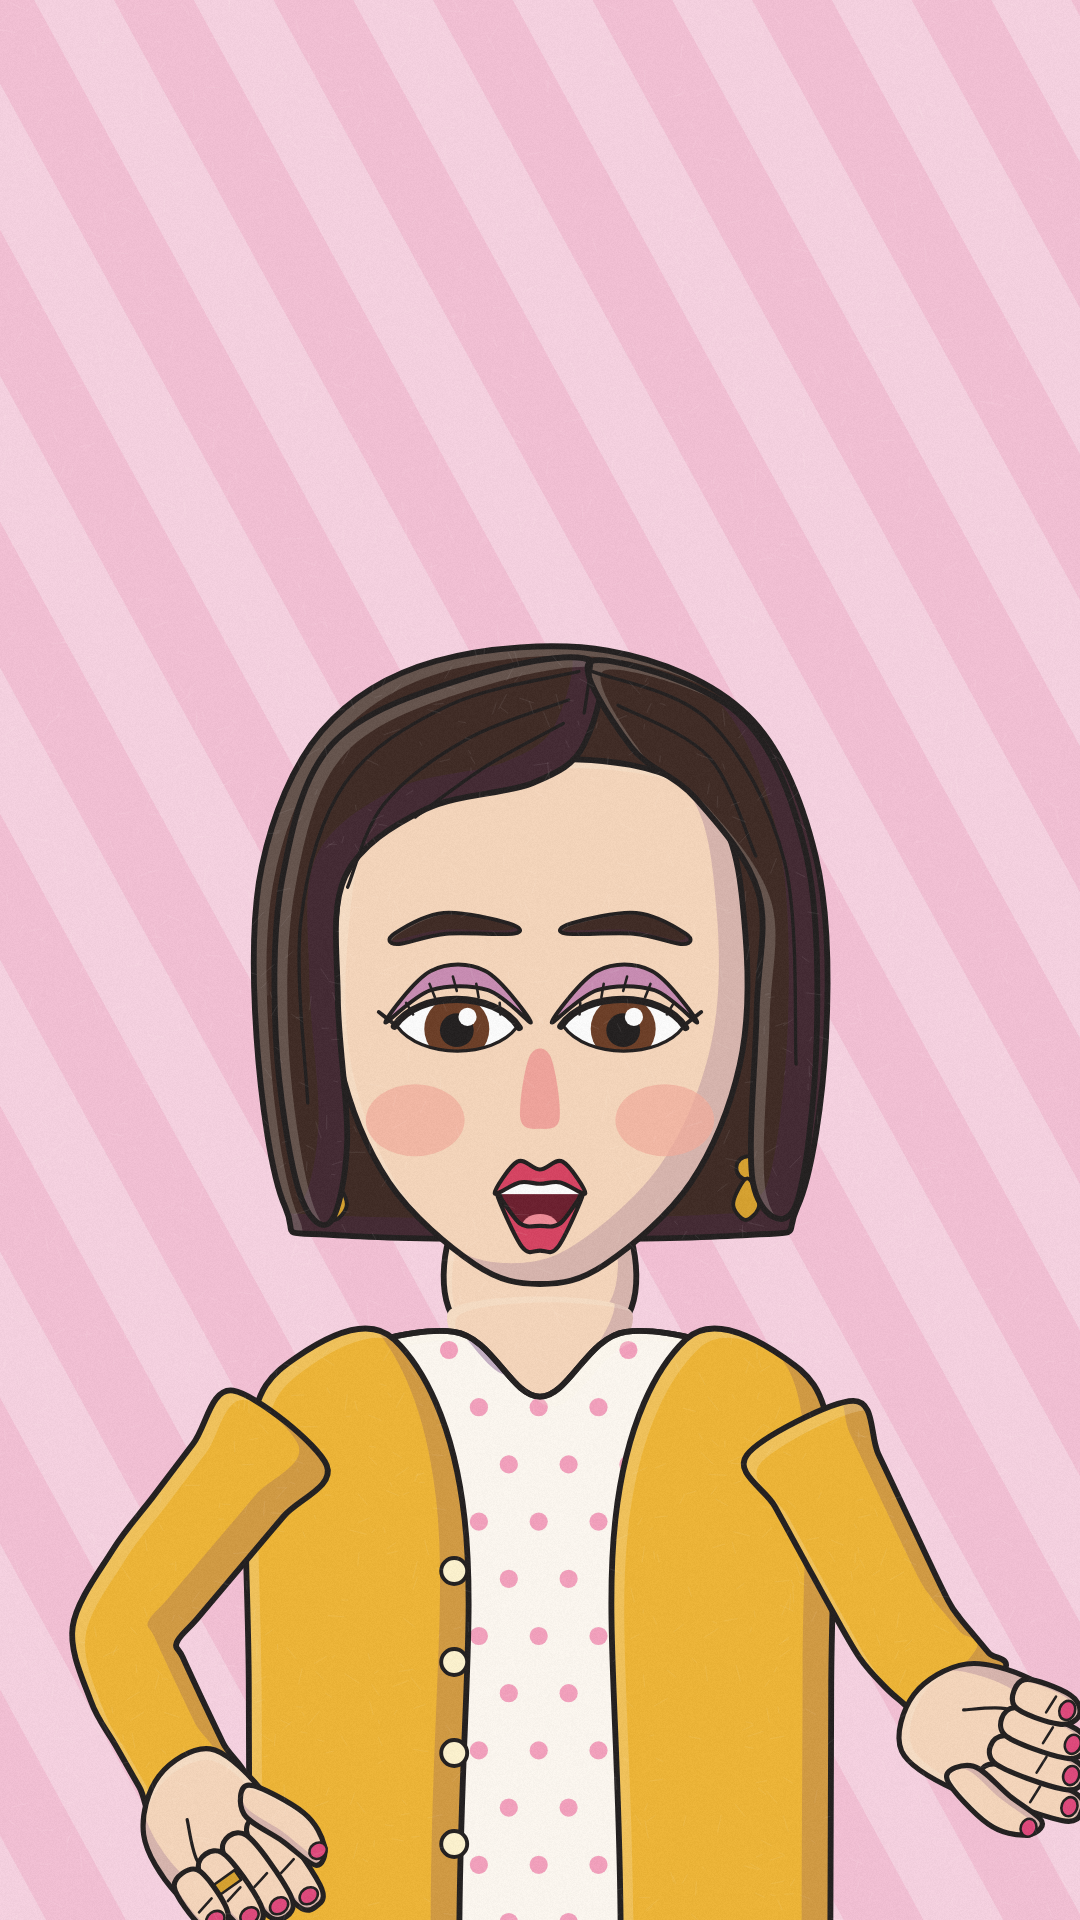
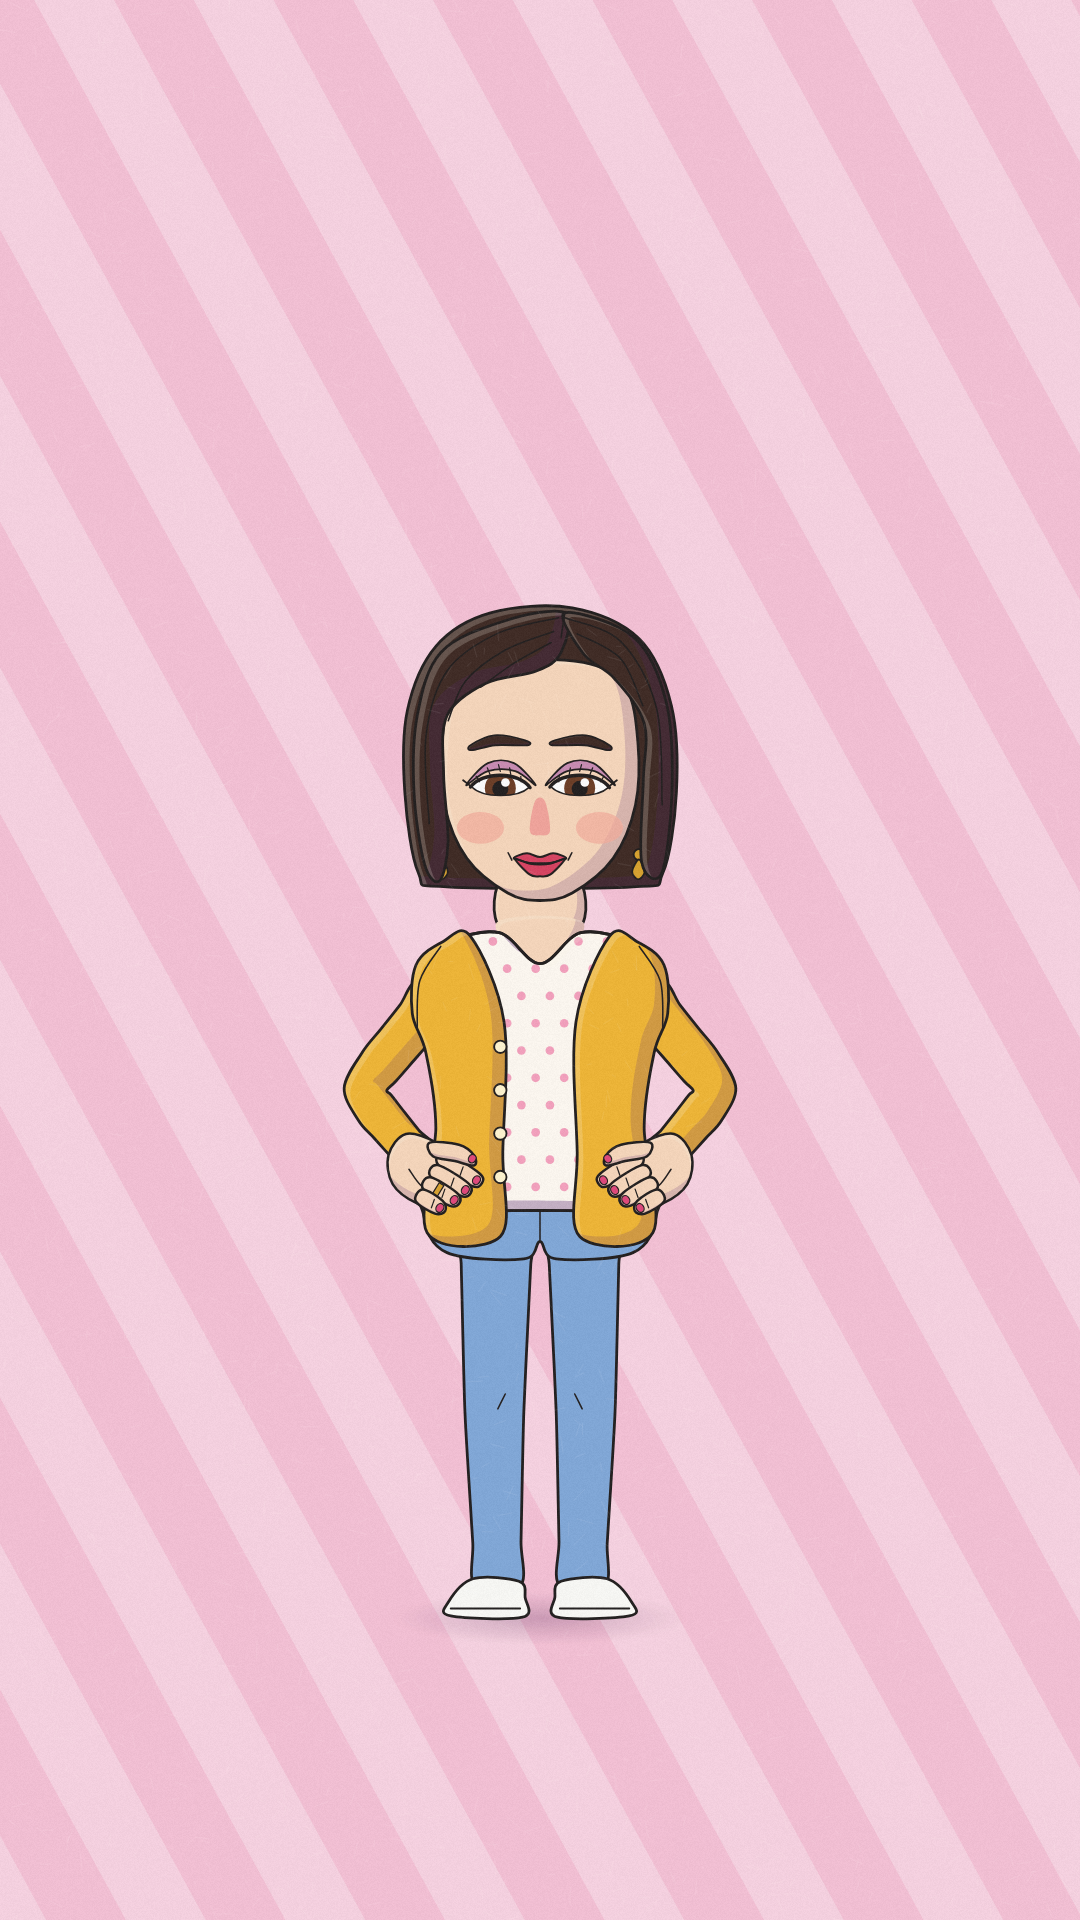
Thin-line cast: anatomical full bodies (shoulders, waist, hips, legs, shoes), arms from under the shoulder, new arm poses
Claude-Session: https://claude.ai/code/session_01RM84ZhQNxywyi2ve1hSSaa

diff --git a/speak_in_english/thinline_cast/tl_cast.js b/speak_in_english/thinline_cast/tl_cast.js
@@ -41,26 +41,47 @@ function face(x, y, o, st) {
   if (Dm <= 3) line([[x - w, cy], [x - w * .4, upB + 1], [x, upB + 2], [x + w * .4, upB + 1], [x + w, cy]], 3);
   if (sm > .3) for (const s of [-1, 1]) line([[x + s * (w + 9), cy - 9], [x + s * (w + 3), cy + 3]], 2.5);
 }
-// arms: Irina's poses scaled to a slimmer body
-function arms(x, y, st, kx, sleeve, w0, w1, shoulderX, ring) {
-  const S = p => [x + (p[0] - x) * kx, p[1]], P = pose => { const a = ARMS[pose](x, y); return { L: { ...a.L, e: S(a.L.e), h: S(a.L.h) }, R: { ...a.R, e: S(a.R.e), h: S(a.R.h) } }; };
-  const A = P(st.armA || 'hips'), B = P(st.armB || st.armA || 'hips'), k = ease(st.armK ?? 1), arm = {};
-  for (const side of ['L', 'R']) { const a = A[side], b = B[side], e = lerp2(a.e, b.e, k), h = lerp2(a.h, b.h, k);
+// ---------------- anatomical body: torso with shoulders, waist, hips; arms (elbow at the waist, wrist at the hip); legs with knees; shoes ----------------
+// arm poses for our cast: [elbow, hand, hand angle, flip, hand mode] per side, sw = half shoulder width
+function POSE(x, y, sw) { const L = (e, h, ang, flip, mode) => ({ e, h, ang, flip, mode });
+  return {
+    down:  { L: L([x - sw - 36, y + 560], [x - sw - 30, y + 780], 1.62, 1, 'open'), R: L([x + sw + 36, y + 560], [x + sw + 30, y + 780], Math.PI - 1.62, -1, 'open') },
+    hips:  { L: L([x - sw - 95, y + 500], [x - sw + 24, y + 640], 0.55, 1, 'hold'), R: L([x + sw + 95, y + 500], [x + sw - 24, y + 640], Math.PI - 0.55, -1, 'hold') },
+    point: { L: L([x - sw - 36, y + 560], [x - sw - 30, y + 780], 1.62, 1, 'open'), R: L([x + sw + 95, y + 430], [x + sw + 230, y + 330], -0.65, 1, 'open') },
+    pointL:{ L: L([x - sw - 95, y + 430], [x - sw - 230, y + 330], Math.PI + 0.65, -1, 'open'), R: L([x + sw + 36, y + 560], [x + sw + 30, y + 780], Math.PI - 1.62, -1, 'open') },
+    spread:{ L: L([x - sw - 70, y + 540], [x - sw - 200, y + 470], Math.PI + 0.45, -1, 'open'), R: L([x + sw + 70, y + 540], [x + sw + 200, y + 470], -0.45, 1, 'open') },
+    wave:  { L: L([x - sw - 36, y + 560], [x - sw - 30, y + 780], 1.62, 1, 'open'), R: L([x + sw + 110, y + 330], [x + sw + 150, y + 140], -1.4, 1, 'open') } }; }
+function arms(x, y, st, sw, sleeve, w0, w1, ring) {   // sleeves now (behind the torso), returns a function that draws the hands on top
+  const PS = POSE(x, y, sw), A = PS[st.armA || 'down'], B = PS[st.armB || st.armA || 'down'], k = ease(st.armK ?? 1), arm = {};
+  for (const side of ['L', 'R']) { const a = A[side], b = B[side], e = lerp2(a.e, b.e, k), h = lerp2(a.h, b.h, k), sg = side === 'L' ? -1 : 1;
     arm[side] = { e, h, ang: a.ang + (b.ang - a.ang) * k, mode: k < .5 ? a.mode : b.mode, flip: k < .5 ? a.flip : b.flip };
-    const sh = [x + (side === 'L' ? -shoulderX : shoulderX), y + 320], d = Math.hypot(e[0] - h[0], e[1] - h[1]) || 1, wr = [h[0] + (e[0] - h[0]) / d * 40, h[1] + (e[1] - h[1]) / d * 40];
+    const sh = [x + sg * (sw - 30), y + 350], d = Math.hypot(e[0] - h[0], e[1] - h[1]) || 1, wr = [h[0] + (e[0] - h[0]) / d * 36, h[1] + (e[1] - h[1]) / d * 36];
     shape(tubePts([sh, e, wr], w0, w1), sleeve); }
-  hand(arm.L.h[0], arm.L.h[1], arm.L.ang, arm.L.mode, arm.L.flip, null, ring); hand(arm.R.h[0], arm.R.h[1], arm.R.ang, arm.R.mode, arm.R.flip, null, false); }
-// ---------------- heroine: dark bob with a caramel lock, yellow cardigan over a polka-dot blouse ----------------
+  return () => { hand(arm.L.h[0], arm.L.h[1], arm.L.ang, arm.L.mode, arm.L.flip, null, ring); hand(arm.R.h[0], arm.R.h[1], arm.R.ang, arm.R.mode, arm.R.flip, null, false); }; }
+function legs(x, y, hipX, w0, w1, jeans, shoe, shoeTop) {
+  for (const s of [-1, 1]) { const hip = [x + s * hipX, y + 700], knee = [x + s * (hipX + 4), y + 1020], ank = [x + s * (hipX - 2), y + 1300];
+    shape(tubePts([hip, knee, ank], w0, w1), jeans); line([[knee[0] - s * 18, knee[1] - 30], [knee[0] - s * 6, knee[1] - 6]], 2.5);
+    const fx = ank[0] + s * 10, fy = ank[1] + 22;
+    shape([[fx - s * 44, fy - 30], [fx + s * 30, fy - 34], [fx + s * 70, fy + 4], [fx + s * 66, fy + 26], [fx - s * 50, fy + 28], [fx - s * 54, fy - 4]], shoe);
+    if (shoeTop) line([[fx - s * 46, fy + 14], [fx + s * 66, fy + 14]], 3); } }
+function floorShadow(x, y, rx) { const G = g(), cy = y + 1352, gr = G.createRadialGradient(x, cy, 0, x, cy, rx); gr.addColorStop(0, 'rgba(60,20,70,0.22)'); gr.addColorStop(1, 'rgba(60,20,70,0)'); G.save(); G.translate(x, cy); G.scale(1, .18); G.translate(-x, -cy); G.fillStyle = gr; G.fillRect(x - rx, cy - rx, rx * 2, rx * 2); G.restore(); }
+// ---------------- heroine: dark bob with a side parting, yellow cardigan over a polka-dot blouse, jeans, white sneakers ----------------
 const HER_F = [[-158, -60, 0], [-138, -150, 0], [-70, -190, 0], [70, -190, 0], [138, -150, 0], [158, -60, 0], [154, 40, .05], [118, 126, .35], [52, 182, .8], [0, 194, 1], [-52, 182, .8], [-118, 126, .35], [-154, 40, .05]];
-function heroine(st) { const x = st.x ?? 540, y = 1000 + (st.by || 0), G = g(); setPal(PAL.her); const T = st.time || 0;
+function heroine(st) { const x = st.x ?? 540, y = 1000 + (st.by || 0), G = g(); setPal(PAL.her); const T = st.time || 0, sw = 196;
+  floorShadow(x, y - (st.by || 0), 240);
   shape([[x - 196, y + 150], [x - 218, y + 20], [x - 214, y - 112], [x - 168, y - 216], [x - 80, y - 270], [x + 52, y - 278], [x + 160, y - 228], [x + 212, y - 120], [x + 220, y + 20], [x + 198, y + 150], [x + 150, y + 172], [x - 150, y + 172]], C.hairP);
+  legs(x, y, 70, 118, 72, '#7fa7d9', '#fbfbf8', true);
+  shape([[x - 180, y + 600], [x + 180, y + 600], [x + 188, y + 700], [x + 150, y + 762], [x + 26, y + 772], [x, y + 744], [x - 26, y + 772], [x - 150, y + 762], [x - 188, y + 700]], '#7fa7d9');
+  line([[x, y + 640], [x, y + 742]], 2.5);
   shape([[x - 56, y + 150], [x + 56, y + 150], [x + 62, y + 240], [x - 62, y + 240]], C.skin);
-  const blouse = [[x - 212, 2600], [x - 213, y + 1300], [x - 214, y + 800], [x - 214, y + 520], [x - 214, y + 330], [x - 176, y + 272], [x - 66, y + 246], [x, y + 296], [x + 66, y + 246], [x + 176, y + 272], [x + 214, y + 330], [x + 214, y + 520], [x + 214, y + 800], [x + 213, y + 1300], [x + 212, 2600]];
+  const hands = arms(x, y, st, sw, C.top, 78, 60, true);
+  const blouse = [[x - 160, y + 560], [x - 176, y + 440], [x - 198, y + 372], [x - 194, y + 300], [x - 150, y + 262], [x - 66, y + 246], [x, y + 296], [x + 66, y + 246], [x + 150, y + 262], [x + 194, y + 300], [x + 198, y + 372], [x + 176, y + 440], [x + 160, y + 560], [x + 170, y + 650], [x + 172, y + 690], [x, y + 694], [x - 172, y + 690], [x - 170, y + 650]];
   shape([[x - 70, y + 230], [x + 70, y + 230], [x, y + 320]], C.skin, 0); shape(blouse, C.top2);
-  G.save(); crPath(blouse); G.clip(); G.fillStyle = C.dot; for (let i = 0; i < 14; i++) for (let k = 0; k < 18; k++) { G.beginPath(); G.arc(x - 300 + i * 46 + (k % 2) * 23, y + 260 + k * 44, 7, 0, 7); G.fill(); } G.restore(); shadeOver(blouse); crPath(blouse); G.strokeStyle = C.ink; G.lineWidth = K.LW; G.stroke();
-  for (const s of [-1, 1]) { const pnl = [[x + s * 220, 2600], [x + s * 222, y + 1300], [x + s * 223, y + 800], [x + s * 224, y + 520], [x + s * 224, y + 330], [x + s * 188, y + 266], [x + s * 112, y + 252], [x + s * 58, y + 390], [x + s * 62, y + 700], [x + s * 66, y + 1300], [x + s * 70, 2600]]; shape(pnl, C.top); }
-  for (let q = 0; q < 4; q++) oval(x - 66, y + 430 + q * 70, 10, 10, '#fff4cf', 3);
-  arms(x, y, st, 0.8, C.top, 92, 70, 200, true);
+  G.save(); crPath(blouse); G.clip(); G.fillStyle = C.dot; for (let i = 0; i < 12; i++) for (let k = 0; k < 12; k++) { G.beginPath(); G.arc(x - 260 + i * 46 + (k % 2) * 23, y + 260 + k * 44, 7, 0, 7); G.fill(); } G.restore(); shadeOver(blouse); crPath(blouse); G.strokeStyle = C.ink; G.lineWidth = K.LW; G.stroke();
+  for (const s of [-1, 1]) shape([[x + s * 182, y + 730], [x + s * 168, y + 560], [x + s * 184, y + 440], [x + s * 206, y + 376], [x + s * 200, y + 298], [x + s * 156, y + 260], [x + s * 112, y + 252], [x + s * 58, y + 390], [x + s * 60, y + 600], [x + s * 64, y + 736]], C.top);
+  for (let q = 0; q < 4; q++) oval(x - 64, y + 430 + q * 70, 10, 10, '#fff4cf', 3);
+  for (const s of [-1, 1]) line([[x + s * 160, y + 268], [x + s * 194, y + 324], [x + s * 198, y + 400]], 2.5);
+  hands();
   face(x, y, { F: HER_F, cx: 96, cy: 84, ck: [38, 28], ex: 64, ey: 10, ew: 46, eh: 25, ir: 25, lid: 5.5, lashes: true, browT: 4, ny: 34, my: 130, mw: 34, lt: 12, lb: 22 }, st);
   for (const s of [-1, 1]) { const a = 0.2 * Math.sin(T * 2.6 + s) * (0.3 + (st.talk || 0) * .7); G.save(); G.translate(x + s * 160, y + 120); G.rotate(a); oval(0, 0, 9, 9, C.gold, 3); shape([[0, 8], [10, 28], [0, 40], [-10, 28]], C.gold, 3); G.restore(); }
   const sway = (pts) => pts.map(([px, py]) => [px + clamp((py - (y - 60)) / 220) * 4 * Math.sin(T * 1.1 + .6), py]);
@@ -68,14 +89,20 @@ function heroine(st) { const x = st.x ?? 540, y = 1000 + (st.by || 0), G = g(); 
   shape(sway([[x + 40, y - 270], [x + 152, y - 230], [x + 204, y - 124], [x + 212, y + 20], [x + 194, y + 150], [x + 162, y + 132], [x + 166, y + 0], [x + 168, y - 92], [x + 120, y - 164], [x + 70, y - 204]]), C.hairP);
   for (const p of [[[x + 30, y - 262], [x - 70, y - 236], [x - 150, y - 176], [x - 184, y - 70], [x - 180, y + 70]], [[x + 40, y - 262], [x + 130, y - 224], [x + 188, y - 116], [x + 196, y + 40]], [[x + 22, y - 240], [x - 56, y - 210], [x - 120, y - 160], [x - 148, y - 96]], [[x + 18, y - 222], [x - 40, y - 190], [x - 96, y - 150]], [[x + 60, y - 236], [x + 130, y - 196], [x + 166, y - 120]], [[x + 40, y - 270], [x + 34, y - 230]]]) line(sway(p), 2.6);
 }
-// ---------------- Tom: short brown hair with a lighter swoop, blue jumper ----------------
+// ---------------- Tom: short brown hair with a fringe, blue jumper, dark jeans, dark sneakers ----------------
 const TOM_F = [[-156, -70, 0], [-142, -160, 0], [-72, -206, 0], [72, -206, 0], [142, -160, 0], [156, -70, 0], [156, 40, .05], [142, 136, .35], [84, 196, .8], [0, 210, 1], [-84, 196, .8], [-142, 136, .35], [-156, 40, .05]];
-function tom(st) { const x = st.x ?? 540, y = 990 + (st.by || 0), G = g(); setPal(PAL.tom);
+function tom(st) { const x = st.x ?? 540, y = 990 + (st.by || 0), G = g(); setPal(PAL.tom); const sw = 222;
+  floorShadow(x, y + 10 - (st.by || 0), 270);
+  legs(x, y + 10, 80, 136, 84, '#3a4866', '#3a2f2a', true);
+  shape([[x - 200, y + 640], [x + 200, y + 640], [x + 206, y + 740], [x + 160, y + 792], [x + 26, y + 802], [x, y + 772], [x - 26, y + 802], [x - 160, y + 792], [x - 206, y + 740]], '#3a4866');
   shape([[x - 66, y + 168], [x + 66, y + 168], [x + 74, y + 256], [x - 74, y + 256]], C.skin);
-  const body = [[x - 246, 2600], [x - 248, y + 1300], [x - 250, y + 800], [x - 250, y + 540], [x - 250, y + 340], [x - 200, y + 274], [x - 84, y + 248], [x, y + 262], [x + 84, y + 248], [x + 200, y + 274], [x + 250, y + 340], [x + 250, y + 540], [x + 250, y + 800], [x + 248, y + 1300], [x + 246, 2600]];
-  shape(body, C.top); shape([[x - 86, y + 246], [x + 86, y + 246], [x + 72, y + 286], [x, y + 298], [x - 72, y + 286]], C.top2, 4);
+  const hands = arms(x, y, st, sw, C.top, 92, 72, false);
+  shape([[x - 206, y + 600], [x - 220, y + 440], [x - 236, y + 386], [x - 228, y + 312], [x - 172, y + 268], [x - 84, y + 248], [x, y + 262], [x + 84, y + 248], [x + 172, y + 268], [x + 228, y + 312], [x + 236, y + 386], [x + 220, y + 440], [x + 206, y + 600], [x + 210, y + 680], [x + 213, y + 740], [x + 214, y + 768], [x + 110, y + 770], [x, y + 771], [x - 110, y + 770], [x - 214, y + 768], [x - 213, y + 740], [x - 210, y + 680]], C.top);
+  shape([[x - 214, y + 704], [x - 110, y + 705], [x, y + 706], [x + 110, y + 705], [x + 214, y + 704], [x + 215, y + 720], [x + 215, y + 752], [x + 214, y + 768], [x + 110, y + 771], [x, y + 772], [x - 110, y + 771], [x - 214, y + 768], [x - 215, y + 752], [x - 215, y + 720]], C.top2, 4);
+  shape([[x - 86, y + 246], [x + 86, y + 246], [x + 72, y + 286], [x, y + 298], [x - 72, y + 286]], C.top2, 4);
   for (let q = -3; q <= 3; q++) line([[x + q * 20, y + 252], [x + q * 18, y + 288]], 2);
-  arms(x, y, st, 0.88, C.top, 104, 80, 232, false);
+  for (const s of [-1, 1]) line([[x + s * 192, y + 280], [x + s * 226, y + 340], [x + s * 230, y + 420]], 2.5);
+  hands();
   for (const s of [-1, 1]) { oval(x + s * 158, y + 14, 24, 38, C.skin); line([[x + s * 154, y - 2], [x + s * 164, y + 18], [x + s * 154, y + 34]], 2.5); }
   face(x, y, { F: TOM_F, cx: 92, cy: 92, ck: [34, 24], ex: 62, ey: 4, ew: 42, eh: 22, ir: 22, lid: 4.5, lashes: false, browT: 11, ny: 30, my: 140, mw: 38, lt: 9, lb: 18 }, st);
   shape([[x - 162, y - 40], [x - 172, y - 130], [x - 136, y - 216], [x - 54, y - 270], [x + 56, y - 274], [x + 146, y - 228], [x + 176, y - 140], [x + 168, y - 40], [x + 150, y - 112], [x + 108, y - 162], [x + 36, y - 180], [x - 36, y - 172], [x - 100, y - 152], [x - 144, y - 102]], C.hairP);

diff --git a/speak_in_english/thinline_cast/tl_sheet.js b/speak_in_english/thinline_cast/tl_sheet.js
@@ -4,10 +4,10 @@ const W = 1080, H = 1920, cv = K.createCanvas(W, H), g = cv.getContext('2d'); K.
 const bg = (c1, c2) => { g.setTransform(1, 0, 0, 1, 0, 0); g.fillStyle = c1; g.fillRect(0, 0, W, H); g.save(); g.rotate(-0.5); g.fillStyle = c2; for (let x = -2000; x < 2000; x += 140) g.fillRect(x, -400, 70, 3200); g.restore(); };
 const cam = (z, cx, cy) => { g.setTransform(1, 0, 0, 1, 0, 0); g.translate(W / 2, H / 2); g.scale(z, z); g.translate(-cx, -cy); };
 const F = [
-  () => { bg('#f9d3e2', '#f6c1d6'); cam(1.3, 540, 960); heroine({ mo: VIS.A, armA: 'point', browUp: 6 }); },
-  () => { bg('#fff1cf', '#ffe7b0'); cam(1.3, 540, 960); heroine({ smile: 1, armA: 'hips', look: .4 }); },
-  () => { bg('#dcefff', '#cbe5fb'); cam(1.3, 540, 960); tom({ mo: VIS.O, armA: 'hips', browUp: 16 }); },
-  () => { bg('#e4f4ea', '#d0ecdb'); g.setTransform(1, 0, 0, 1, 0, 0); g.save(); g.translate(-59, 120); g.scale(.72, .72); tom({ x: 540, mo: VIS.E, armA: 'hips', look: .5, smile: .4 }); g.restore(); g.save(); g.translate(371, 150); g.scale(.72, .72); heroine({ x: 540, armA: 'point', mo: VIS.M, look: -.6 }); g.restore(); } ];
+  () => { bg('#f9d3e2', '#f6c1d6'); cam(.62, 540, 1290); heroine({ armA: 'hips', smile: .6 }); },
+  () => { bg('#dcefff', '#cbe5fb'); cam(.62, 540, 1290); tom({ armA: 'point', mo: VIS.O, browUp: 14 }); },
+  () => { bg('#fff1cf', '#ffe7b0'); cam(1.3, 540, 960); heroine({ mo: VIS.A, armA: 'spread', browUp: 6 }); },
+  () => { bg('#e4f4ea', '#d0ecdb'); cam(.5, 540, 1300); tom({ x: 260, armA: 'down', mo: VIS.E, look: .5, smile: .4 }); heroine({ x: 820, armA: 'wave', look: -.6, smile: .8 }); } ];
 const sheet = K.createCanvas(F.length * 540, 960), sg = sheet.getContext('2d');
 F.forEach((f, i) => { f(); g.setTransform(1, 0, 0, 1, 0, 0); g.drawImage(K.PAPER, 0, 0); sg.drawImage(cv, i * 540, 0, 540, 960); if (i === 0) require('fs').writeFileSync(process.argv[2].replace('.png', '_her.png'), cv.toBuffer('image/png')); });
 require('fs').writeFileSync(process.argv[2], sheet.toBuffer('image/png')); console.log('ok');
